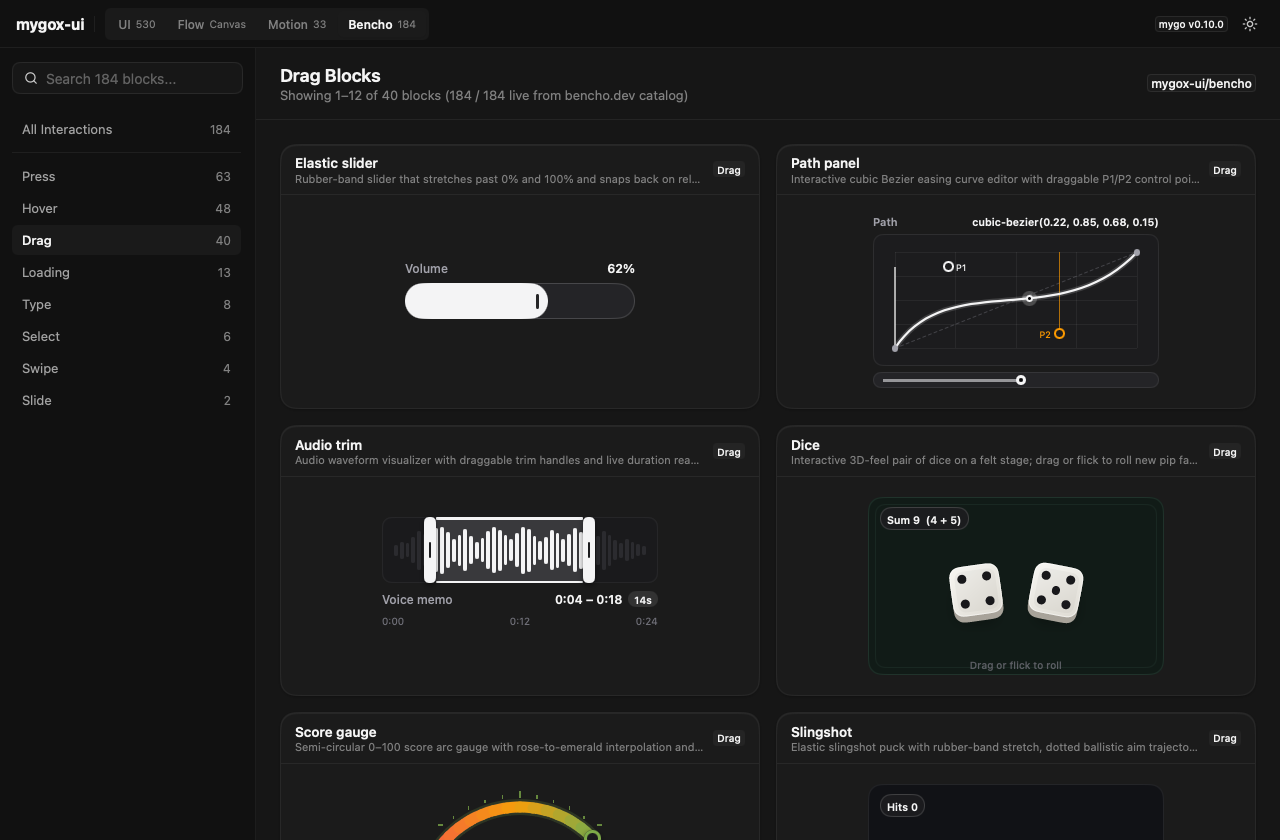
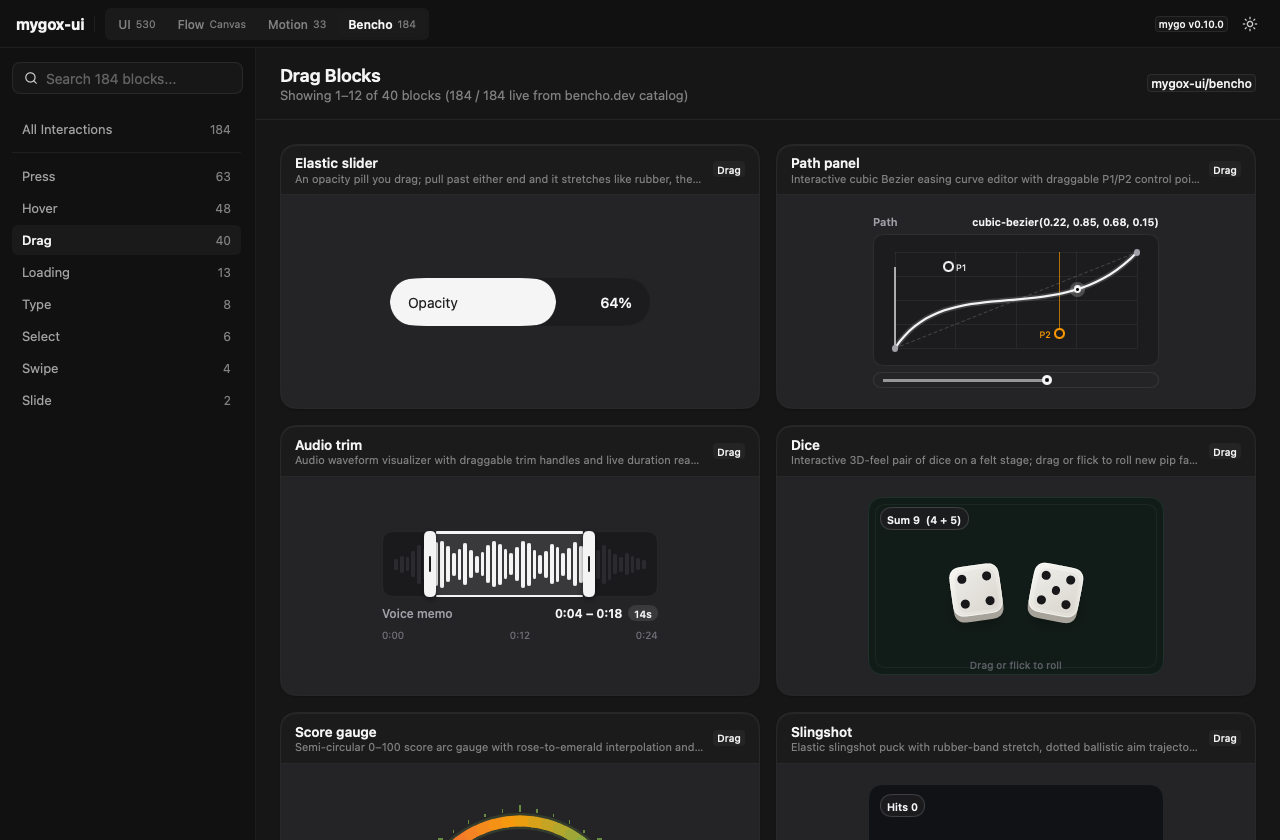
showcase: bencho blocks sit on bencho.dev's grey stage, filling their card, so their white cards stand out; docs: bencho screenshots

diff --git a/cmd/showcase/bencho_view.go b/cmd/showcase/bencho_view.go
@@ -330,11 +330,14 @@ func (a *showcaseApp) benchoCard(c *ui.Context, t theme.Tokens, blk bencho.Block
 			if isMobile {
 				minH = 160
 			}
+			// Blocks sit on bencho.dev's grey stage, which their white cards stand out from.
 			ui.Column(c).
 				WidthPercent(100).
 				MinHeight(minH).
+				Grow(1).
 				Center().
 				Padding(20, 16).
+				Background(bencho.ThemeFor(a.dark).SurfaceSubtle).
 				Children(func() {
 					blk.Demo(c)
 				})
